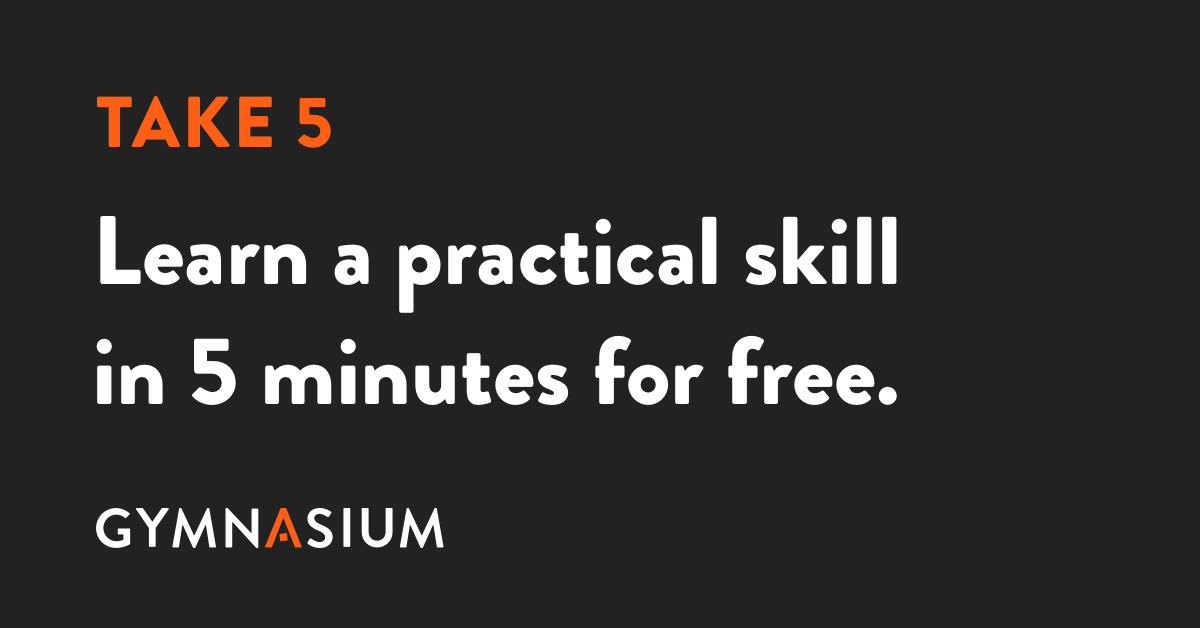
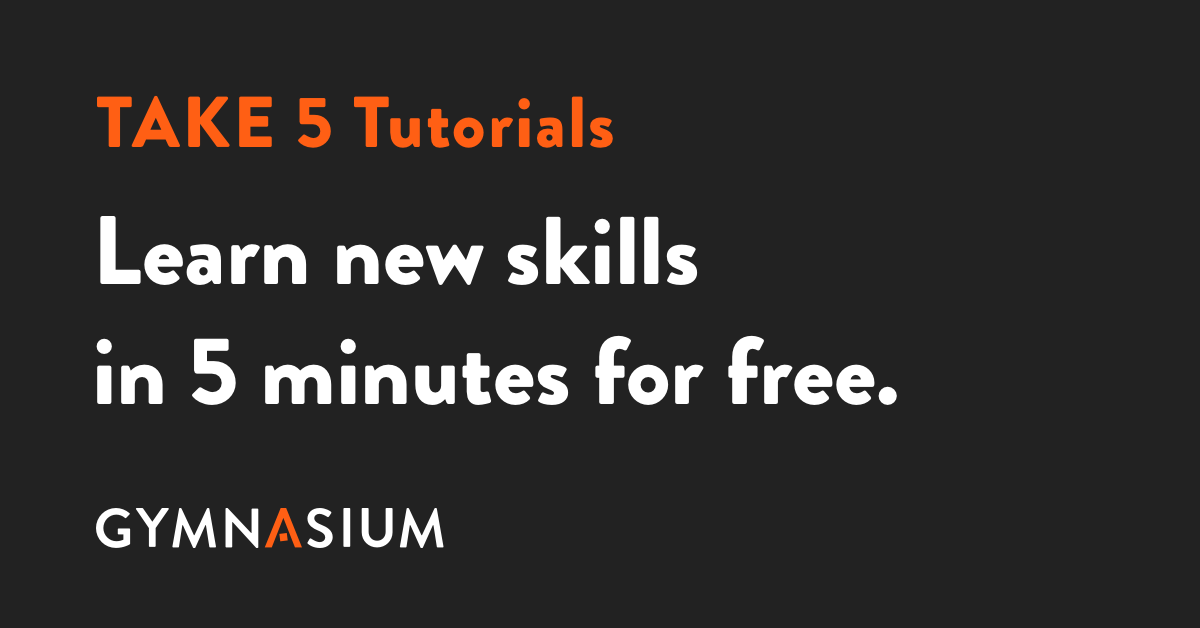
Update Take 5 OG content
- Update description
- Update image

Changed region(s): [[0.2775, 0.3328, 0.7708, 0.5143], [0.2775, 0.1513, 0.5242, 0.242]]

diff --git a/courses/take5/meta.md b/courses/take5/meta.md
@@ -2,7 +2,7 @@
 layout: meta
 permalink: /courses/take5/meta/
 page_title: "Take 5 | Gymnasium"
-og_description: "Learn a practical skill in 5 minutes for free."
+og_description: "Learn new skills in 5 minutes for free."
 og_art: /img/take5/og/gym-take5-og.png
 og_url: https://thegymnasium.com/courses/take5
 ---
